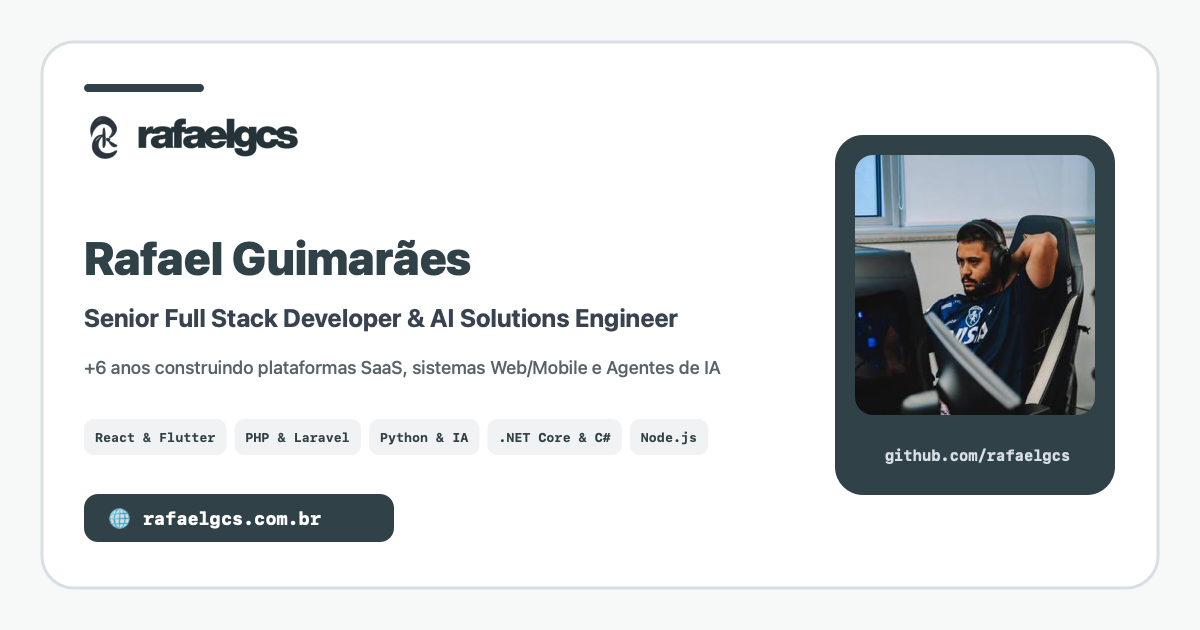
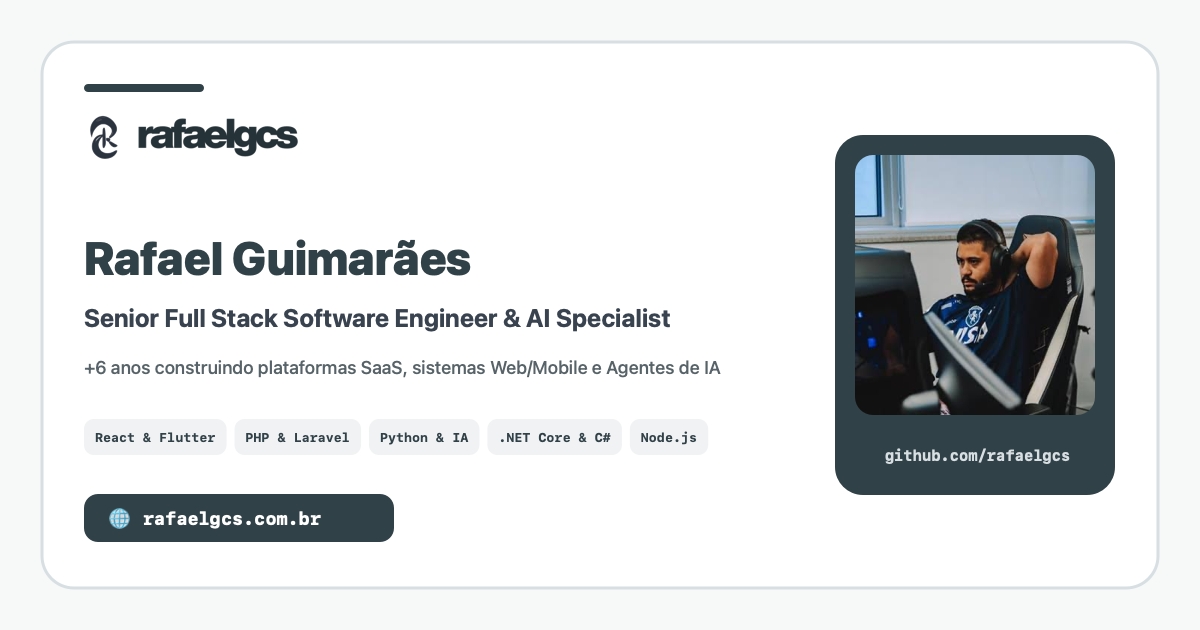
refactor: update job titles and descriptions to reflect Software Engineer role
- Changed "Desenvolvedor Full Stack Sênior" to "Engenheiro de Software Full Stack Sênior" in multiple files.
- Updated portfolio descriptions and SEO metadata to align with the new title.
- Enhanced project descriptions to better represent skills and technologies used.
- Adjusted keywords in meta tags for improved search visibility.

Changed region(s): [[0.2158, 0.4825, 0.5858, 0.5429]]

diff --git a/resources/js/Pages/Portfolio.jsx b/resources/js/Pages/Portfolio.jsx
@@ -250,9 +250,9 @@ function ProjectVisualPreview({ project }) {
 const CONTENT = {
     pt: {
         seo: {
-            title: 'Rafael Guimarães — Desenvolvedor Full Stack Sênior & Especialista em IA | rafaelgcs',
+            title: 'Rafael Guimarães — Engenheiro de Software Full Stack Sênior & Especialista em IA | rafaelgcs',
             description:
-                'Portfólio oficial de Rafael Guimarães (rafaelgcs) — Desenvolvedor Full Stack Sênior & Especialista em Soluções de Inteligência Artificial (+6 anos com React, PHP/Laravel, Python/Django, .NET Core, Node.js, Flutter e IA).',
+                'Portfólio oficial de Rafael Guimarães (rafaelgcs) — Engenheiro de Software Full Stack Sênior (Senior Software Engineer) & Especialista em Soluções de Inteligência Artificial (+6 anos com React, PHP/Laravel, Python/Django, .NET Core, Node.js, Flutter e IA).',
             locale: 'pt_BR',
         },
         slides: [
@@ -268,12 +268,11 @@ const CONTENT = {
         },
         hero: {
             greeting: 'Olá! Eu sou o Rafael Guimarães 👋',
-            badge: 'Disponível para novos projetos & vagas Sênior (Remoto / Híbrido)',
             headlinePart1: 'Transformo ideias e desafios em ',
             headlineHighlight: 'sistemas web, apps & agentes de IA',
             headlinePart2: ' com foco total na experiência do usuário.',
             description:
-                'Graduando em Análise e Desenvolvimento de Sistemas (Estácio) e em Ciência e Tecnologia (UFBA), Técnico em Desenvolvimento de Software pelo SENAI CIMATEC e Design na SAGA. Somo +6 anos construindo aplicações Full Stack (React, React Native, Flutter, Angular, PHP/Laravel, .NET Core, Node.js e Python/Django) e soluções de IA.',
+                'Graduando em Análise e Desenvolvimento de Sistemas (Estácio — previsão Jun/2027) e em Ciência e Tecnologia (UFBA — previsão Jun/2028), Técnico em Desenvolvimento de Software pelo SENAI CIMATEC e Design na SAGA. Somo +6 anos construindo aplicações Full Stack (React, React Native, Flutter, Angular, PHP/Laravel, .NET Core, Node.js e Python/Django) e soluções de IA.',
             primaryCta: 'Ver Projetos Realizados',
             cvPtBtn: 'Currículo (PT-BR)',
             cvEnBtn: 'Resume (EN)',
@@ -518,18 +517,18 @@ const CONTENT = {
                     id: 'almaviva-ai-maximo',
                     category: 'systems',
                     visualType: 'whatsapp-ai',
-                    badge: 'IA & Sistemas Críticos',
+                    badge: 'IA, Áudio, Big Data & Multi-Stack',
                     client: 'AlmaViva Solutions',
                     year: '2022 – 2026',
-                    title: 'Agentes de IA (Gemini/Vertex/Watson) & IBM Maximo',
+                    title: 'Chatbots (Watson/Gemini), Áudio IA, Python & .NET/Node',
                     shortDesc:
-                        'Desenvolvimento Full Stack em Python (Django), React e Angular integrado ao IBM Maximo e assistentes inteligentes no WhatsApp.',
+                        'Arquitetura em Python (Django, Flask, FastAPI), React/Angular e .NET Core/ASP.NET/Node.js, treinamento de IA, tratamento de áudio e chats embedded (iframe/WhatsApp).',
                     challenge:
-                        'Integrar atendimento automatizado de alta escala no WhatsApp e gestão de ativos corporativos (IBM Maximo) com baixa latência.',
+                        'Escalar canais de atendimento inteligente (WhatsApp e widgets embedded via iframe), processar áudio para treinamento de IA e sustentar múltiplos sistemas críticos e Big Data.',
                     solution:
-                        'Construção de microsserviços e APIs REST em Python/Django, dashboards em React/Angular e fluxos conversacionais com Google Vertex AI, Gemini e Watson.',
-                    impact: 'Promoção para Analista Nível IV e automação de operações críticas.',
-                    stack: ['Python', 'Django', 'React.js', 'Angular', 'Docker'],
+                        'Arquitetura com Python (Django, Flask, FastAPI), interfaces React.js/Angular, evolução para .NET Core, ASP.NET legado e Node.js no último ano, além de chatbots IBM Watson e Google Gemini.',
+                    impact: 'Promoção de Pleno III para Pleno IV atuando também como Analista de Dados/Big Data e suporte transversal a múltiplos projetos.',
+                    stack: ['Python', 'Django', '.NET Core', 'Node.js', 'React.js', 'Angular'],
                     liveUrl: null,
                     repoUrl: null,
                 },
@@ -537,18 +536,18 @@ const CONTENT = {
                     id: 'capgemini-cimatec',
                     category: 'systems',
                     visualType: 'capgemini-banking',
-                    badge: 'Enterprise & Mobile',
+                    badge: 'Enterprise, Salesforce & Mobile',
                     client: 'Capgemini & SENAI CIMATEC',
                     year: '2019 – 2022',
-                    title: 'Sistemas Corporativos (.NET/React) & Apps Flutter',
+                    title: 'Sistemas Corporativos (Node/Salesforce/.NET/React) & Flutter',
                     shortDesc:
-                        'Modernização de sistemas corporativos com C# (.NET Core / ASP.NET), React.js, Angular e aplicativos móveis em Flutter e React Native.',
+                        'Ingresso na Capgemini como Jr com Node.js e Salesforce, evoluindo com 2 promoções em projetos C# (.NET Core / ASP.NET), React.js, Angular e apps Flutter/React Native.',
                     challenge:
-                        'Entregar aplicações web e mobile escaláveis para grandes clientes corporativos e projetos de P&D cumprindo rigorosos padrões de qualidade.',
+                        'Entregar integrações Salesforce/Node.js e aplicações web e mobile escaláveis para grandes clientes corporativos e projetos de P&D.',
                     solution:
-                        'Desenvolvimento de APIs em .NET Core e Node.js, interfaces em React e Angular, e aplicativos multiplataforma em Flutter (como DevQuiz e conversores no GitHub).',
-                    impact: 'Duas promoções consecutivas na Capgemini em menos de 2 anos.',
-                    stack: ['.NET Core', 'C#', 'React.js', 'Flutter', 'Node.js'],
+                        'Desenvolvimento com Node.js, Salesforce, APIs em .NET Core e ASP.NET, interfaces em React e Angular e aplicativos multiplataforma em Flutter.',
+                    impact: 'Duas promoções consecutivas na Capgemini (Jr → Analista I → Consultor III) em menos de 2 anos.',
+                    stack: ['Node.js', '.NET Core', 'C#', 'React.js', 'Flutter'],
                     liveUrl: null,
                     repoUrl: 'https://github.com/rafaelgcs?tab=repositories',
                 },
@@ -606,23 +605,23 @@ const CONTENT = {
             jobs: [
                 {
                     company: 'AlmaViva Solutions',
-                    role: 'Senior Full Stack & AI Developer (PL III → PL IV)',
+                    role: 'Software Engineer Full Stack, IA & Big Data (Pleno III → Pleno IV)',
                     period: 'Mai 2022 – Nov 2026 (4a 7m)',
-                    badge: 'Promovido ao Nível IV',
+                    badge: 'Pleno III → Pleno IV',
                     summary:
-                        'Liderança técnica em projetos Full Stack (Python/Django, React, Angular), IBM Maximo e IA Generativa (Vertex AI, Gemini, Watson e WhatsApp).',
+                        'Python (Django, Flask, FastAPI), React/Angular e no último ano .NET Core, ASP.NET legado e Node.js. Chatbots (Watson/Gemini), tratamento de áudio, treino de IA, chats embedded (iframe/WhatsApp) e Big Data.',
                 },
                 {
                     company: 'Capgemini',
-                    role: 'Consultor de Soluções Digitais III',
+                    role: 'Software Engineer (Jr → Analista I → Consultor III)',
                     period: 'Mar 2020 – Mai 2022 (2a 3m)',
                     badge: '2 Promoções em < 2 anos',
                     summary:
-                        'Modernização de sistemas corporativos com React.js, Angular, Node.js, C#, ASP.NET e .NET Core em squads ágeis globais.',
+                        'Ingresso como Jr atuando com Node.js e Salesforce, evoluindo na modernização de sistemas corporativos com React.js, Angular, JavaScript, C#, ASP.NET e .NET Core.',
                 },
                 {
                     company: 'SENAI CIMATEC',
-                    role: 'Desenvolvedor de Software (Estágio) & Técnico',
+                    role: 'Estagiário de Engenharia de Software & Técnico',
                     period: 'Abr 2019 – Mar 2020 (Técnico 2017–2019)',
                     badge: 'P&D & Engenharia',
                     summary:
@@ -630,7 +629,7 @@ const CONTENT = {
                 },
                 {
                     company: 'EJC&T (UFBA) & Projetos SaaS',
-                    role: 'Diretor Presidente (CEO), Co-Fundador & Tech Lead',
+                    role: 'Diretor Presidente (CEO), Co-Fundador & Lead Software Engineer',
                     period: 'Abr 2019 – Fev 2021 • SaaS Ativos',
                     badge: 'CEO & Produtos SaaS',
                     summary:
@@ -641,7 +640,7 @@ const CONTENT = {
         contact: {
             title: 'Vamos construir o próximo grande projeto juntos?',
             subtitle:
-                'Disponibilidade imediata para atuar como Senior Full Stack Developer, Python/PHP Engineer ou Front-End/Mobile Specialist.',
+                'Engenheiro de Software Full Stack Sênior com atuação em Python/Django, PHP/Laravel, React/Next.js, .NET Core, Node.js, Mobile e Inteligência Artificial.',
             openModalBtn: 'Mandar Mensagem pelo Site',
             whatsappBtn: 'Chamar no WhatsApp',
             dialogTitle: 'Falar com Rafael Guimarães',
@@ -657,7 +656,7 @@ const CONTENT = {
     },
     en: {
         seo: {
-            title: 'Rafael Guimarães — Senior Full Stack Developer & AI Solutions Engineer | rafaelgcs',
+            title: 'Rafael Guimarães — Senior Full Stack Software Engineer & AI Specialist | rafaelgcs',
             description:
                 'Official portfolio of Rafael Guimarães (rafaelgcs) — Senior Full Stack Software Engineer & AI Solutions Specialist (6+ years building SaaS platforms, Web/Mobile apps with React, Laravel, Python/Django, .NET Core, Node.js, Flutter, and AI Agents).',
             locale: 'en_US',
@@ -675,12 +674,11 @@ const CONTENT = {
         },
         hero: {
             greeting: 'Hi there! I’m Rafael Guimarães 👋',
-            badge: 'Immediate Availability for Senior Roles & Projects (Remote / Hybrid)',
             headlinePart1: 'Turning complex ideas into ',
             headlineHighlight: 'web platforms, mobile apps & AI agents',
             headlinePart2: ' with a strong UI/UX foundation.',
             description:
-                'Systems Analysis & Development (ADS — Estácio) and Science & Technology (UFBA) student, Software Development Technician at SENAI CIMATEC, and Designer trained at SAGA. 6+ years building Full Stack applications (React, React Native, Flutter, Angular, PHP/Laravel, .NET Core, Node.js, Python/Django) and AI solutions.',
+                'Systems Analysis & Development (ADS — Estácio, expected Jun 2027) and Science & Technology (UFBA, expected Jun 2028) student, Software Development Technician at SENAI CIMATEC, and Designer trained at SAGA. 6+ years building Full Stack applications (React, React Native, Flutter, Angular, PHP/Laravel, .NET Core, Node.js, Python/Django) and AI solutions.',
             primaryCta: 'Explore Delivered Projects',
             cvPtBtn: 'Baixar CV (PT-BR)',
             cvEnBtn: 'Download CV (EN)',
@@ -925,18 +923,18 @@ const CONTENT = {
                     id: 'almaviva-ai-maximo',
                     category: 'systems',
                     visualType: 'whatsapp-ai',
-                    badge: 'AI & Enterprise EAM',
+                    badge: 'AI, Audio, Big Data & Multi-Stack',
                     client: 'AlmaViva Solutions',
                     year: '2022 – 2026',
-                    title: 'AI Agents (Gemini/Vertex/Watson) & IBM Maximo',
+                    title: 'Chatbots (Watson/Gemini), Audio AI, Python & .NET/Node',
                     shortDesc:
-                        'Full Stack engineering in Python (Django), React, and Angular integrated with IBM Maximo and WhatsApp AI assistants.',
+                        'Architected systems in Python (Django, Flask, FastAPI), React/Angular, and .NET Core/ASP.NET/Node.js, plus AI training, audio processing, and embedded chats (iframe/WhatsApp).',
                     challenge:
-                        'Connect high-volume WhatsApp customer operations and IBM Maximo asset management with low-latency APIs.',
+                        'Scale automated chat channels (WhatsApp and embedded iframe widgets), build audio processing & AI training pipelines, and support multi-stack enterprise & Big Data systems.',
                     solution:
-                        'Engineered Python/Django REST services, React/Angular portals, and conversational agents powered by Google Vertex AI, Gemini, and Watson.',
-                    impact: 'Promoted to Level IV Analyst while automating mission-critical workflows.',
-                    stack: ['Python', 'Django', 'React.js', 'Angular', 'Docker'],
+                        'Built services with Python (Django, Flask, FastAPI), React/Angular UIs, expanded into .NET Core, legacy ASP.NET, and Node.js in the final year, and orchestrated IBM Watson & Google Gemini chatbots.',
+                    impact: 'Promoted from Pleno III to Pleno IV while also acting as a Data/Big Data Analyst and supporting multiple projects.',
+                    stack: ['Python', 'Django', '.NET Core', 'Node.js', 'React.js', 'Angular'],
                     liveUrl: null,
                     repoUrl: null,
                 },
@@ -944,18 +942,18 @@ const CONTENT = {
                     id: 'capgemini-cimatec',
                     category: 'systems',
                     visualType: 'capgemini-banking',
-                    badge: 'Enterprise & Mobile',
+                    badge: 'Enterprise, Salesforce & Mobile',
                     client: 'Capgemini & SENAI CIMATEC',
                     year: '2019 – 2022',
-                    title: 'Enterprise Systems (.NET/React) & Flutter Apps',
+                    title: 'Enterprise Systems (Node/Salesforce/.NET/React) & Flutter',
                     shortDesc:
-                        'Modernized enterprise platforms with C# (.NET Core / ASP.NET), React.js, Angular, and cross-platform Flutter / React Native apps.',
+                        'Joined Capgemini as a Junior Engineer with Node.js and Salesforce, earning 2 promotions across C# (.NET Core / ASP.NET), React.js, Angular, and Flutter/React Native projects.',
                     challenge:
-                        'Deliver scalable web and mobile solutions for global enterprise clients and R&D initiatives.',
+                        'Deliver Salesforce/Node.js integrations and scalable web/mobile solutions for global enterprise clients and R&D initiatives.',
                     solution:
-                        'Developed .NET Core and Node.js APIs, reusable React/Angular components, and Flutter mobile apps.',
-                    impact: 'Earned two consecutive promotions at Capgemini in under 2 years.',
-                    stack: ['.NET Core', 'C#', 'React.js', 'Flutter', 'Node.js'],
+                        'Developed with Node.js, Salesforce, .NET Core/ASP.NET APIs, reusable React/Angular components, and Flutter mobile apps.',
+                    impact: 'Earned two consecutive promotions at Capgemini (Jr → Analyst I → Consultant III) in under 2 years.',
+                    stack: ['Node.js', '.NET Core', 'C#', 'React.js', 'Flutter'],
                     liveUrl: null,
                     repoUrl: 'https://github.com/rafaelgcs?tab=repositories',
                 },
@@ -1013,23 +1011,23 @@ const CONTENT = {
             jobs: [
                 {
                     company: 'AlmaViva Solutions',
-                    role: 'Senior Full Stack & AI Developer (PL III → IV)',
+                    role: 'Software Engineer Full Stack, AI & Big Data (Pleno III → IV)',
                     period: 'May 2022 – Nov 2026 (4y 7m)',
-                    badge: 'Promoted to Level IV',
+                    badge: 'Pleno III → Pleno IV',
                     summary:
-                        'Technical ownership across Full Stack platforms (Python/Django, React, Angular), IBM Maximo integrations, and Generative AI (Vertex AI, Gemini, Watson, WhatsApp).',
+                        'Python (Django, Flask, FastAPI), React/Angular, and in the final year .NET Core, legacy ASP.NET & Node.js. Chatbots (Watson/Gemini), audio processing, AI training, embedded iframe/WhatsApp chats & Big Data.',
                 },
                 {
                     company: 'Capgemini',
-                    role: 'Digital Solutions Consultant III',
+                    role: 'Software Engineer (Jr → Analyst I → Consultant III)',
                     period: 'Mar 2020 – May 2022 (2y 3m)',
                     badge: '2 Promotions in < 2 yrs',
                     summary:
-                        'Modernized enterprise applications using React.js, Angular, Node.js, C#, ASP.NET, and .NET Core in global Agile squads.',
+                        'Joined as Jr working with Node.js and Salesforce, advancing across enterprise modernizations with React.js, Angular, JavaScript, C#, ASP.NET, and .NET Core.',
                 },
                 {
                     company: 'SENAI CIMATEC',
-                    role: 'Software Development Intern & Technician',
+                    role: 'Software Engineering Intern & Technician',
                     period: 'Apr 2019 – Mar 2020 (Tech 2017–2019)',
                     badge: 'R&D & Engineering',
                     summary:
@@ -1037,7 +1035,7 @@ const CONTENT = {
                 },
                 {
                     company: 'EJC&T (UFBA) & SaaS Products',
-                    role: 'CEO, Co-Founder & SaaS Architect',
+                    role: 'CEO, Co-Founder & Lead Software Engineer',
                     period: 'Apr 2019 – Feb 2021 • Active SaaS',
                     badge: 'CEO & SaaS Products',
                     summary:
@@ -1048,7 +1046,7 @@ const CONTENT = {
         contact: {
             title: 'Let’s build something great together!',
             subtitle:
-                'Available immediately for Senior Full Stack Developer, Python/PHP Engineer, or Front-End/Mobile Specialist roles.',
+                'Senior Full Stack Software Engineer specializing in Python/Django, PHP/Laravel, React/Next.js, .NET Core, Node.js, Mobile, and AI Solutions.',
             openModalBtn: 'Send Message on Site',
             whatsappBtn: 'Chat on WhatsApp',
             dialogTitle: 'Message Rafael Guimarães',
@@ -1420,11 +1418,6 @@ export default function Portfolio({ profile }) {
                     >
                         <div className="slide-stage grid grid-cols-1 lg:grid-cols-12 gap-8 lg:gap-10 items-center">
                             <div className="lg:col-span-7 space-y-4">
-                                <div className="inline-flex items-center gap-2 px-3.5 py-1.5 rounded-full bg-emerald-50 border border-emerald-300 text-emerald-900 text-xs font-bold">
-                                    <span className="w-2 h-2 rounded-full bg-emerald-600 pulse-dot" aria-hidden="true" />
-                                    <span>{t.hero.badge}</span>
-                                </div>
-
                                 <p className="text-base sm:text-lg font-bold text-[#455055]">
                                     {t.hero.greeting}
                                 </p>

diff --git a/resources/js/app.jsx b/resources/js/app.jsx
@@ -1,7 +1,7 @@
 import { createInertiaApp } from '@inertiajs/react';
 import { createRoot } from 'react-dom/client';
 
-const DEFAULT_TITLE = 'Rafael Guimarães — Desenvolvedor Full Stack Sênior & Especialista em IA | rafaelgcs';
+const DEFAULT_TITLE = 'Rafael Guimarães — Engenheiro de Software Full Stack Sênior & Especialista em IA | rafaelgcs';
 
 createInertiaApp({
     title: (title) => {

diff --git a/resources/views/app.blade.php b/resources/views/app.blade.php
@@ -2,8 +2,8 @@
     $rawAppName = config('app.name');
     $defaultTitle = ($rawAppName && $rawAppName !== 'Laravel')
         ? $rawAppName
-        : 'Rafael Guimarães — Desenvolvedor Full Stack Sênior & Especialista em IA | rafaelgcs';
-    $defaultDescription = 'Portfólio oficial de Rafael Guimarães (rafaelgcs) — Desenvolvedor Full Stack Sênior & Especialista em Soluções de Inteligência Artificial (+6 anos com React, Next.js, PHP/Laravel, Python/Django, .NET Core, Node.js, Flutter e Agentes de IA).';
+        : 'Rafael Guimarães — Engenheiro de Software Full Stack Sênior & Especialista em IA | rafaelgcs';
+    $defaultDescription = 'Portfólio oficial de Rafael Guimarães (rafaelgcs) — Engenheiro de Software Full Stack Sênior (Senior Software Engineer) & Especialista em Soluções de Inteligência Artificial (+6 anos com React, Next.js, PHP/Laravel, Python/Django, .NET Core, Node.js, Flutter e Agentes de IA).';
     $canonicalUrl = url()->current() ?: 'https://rafaelgcs.com.br';
     $ogImageUrl = asset('brand/og-cover.png');
 @endphp
@@ -16,7 +16,7 @@
     <!-- Primary SEO Meta Tags -->
     <title inertia>{{ $defaultTitle }}</title>
     <meta name="description" content="{{ $defaultDescription }}" inertia>
-    <meta name="keywords" content="Rafael Guimarães, rafaelgcs, Desenvolvedor Full Stack Sênior, Senior Full Stack Developer, Engenheiro de Software, Especialista em IA, React, React Native, Flutter, Angular, TypeScript, PHP, Laravel, Inertia, Python, Django, .NET Core, C#, Node.js, MiuCore Atende, PsiEasy, Salvador Bahia" inertia>
+    <meta name="keywords" content="Rafael Guimarães, rafaelgcs, Engenheiro de Software Full Stack Sênior, Senior Software Engineer, Senior Full Stack Software Engineer, Especialista em IA, React, React Native, Flutter, Angular, TypeScript, PHP, Laravel, Inertia, Python, Django, .NET Core, C#, Node.js, MiuCore Atende, PsiEasy, Salvador Bahia" inertia>
     <meta name="author" content="Rafael Guimarães (rafaelgcs)">
     <meta name="creator" content="Rafael Guimarães">
     <meta name="publisher" content="Rafael Guimarães">
@@ -37,22 +37,22 @@
     <meta property="og:locale" content="pt_BR" inertia>
     <meta property="og:locale:alternate" content="en_US">
     <meta property="og:url" content="{{ $canonicalUrl }}" inertia>
-    <meta property="og:title" content="Rafael Guimarães — Desenvolvedor Full Stack Sênior & Especialista em IA" inertia>
+    <meta property="og:title" content="Rafael Guimarães — Engenheiro de Software Full Stack Sênior & Especialista em IA" inertia>
     <meta property="og:description" content="{{ $defaultDescription }}" inertia>
     <meta property="og:image" content="{{ $ogImageUrl }}" inertia>
     <meta property="og:image:secure_url" content="{{ $ogImageUrl }}">
     <meta property="og:image:type" content="image/png">
     <meta property="og:image:width" content="1200">
     <meta property="og:image:height" content="630">
-    <meta property="og:image:alt" content="Rafael Guimarães — Senior Full Stack Developer & AI Solutions Engineer (rafaelgcs.com.br)" inertia>
+    <meta property="og:image:alt" content="Rafael Guimarães — Senior Full Stack Software Engineer & AI Specialist (rafaelgcs.com.br)" inertia>
 
     <!-- Twitter / X Large Summary Card -->
     <meta name="twitter:card" content="summary_large_image" inertia>
     <meta name="twitter:url" content="{{ $canonicalUrl }}" inertia>
-    <meta name="twitter:title" content="Rafael Guimarães — Desenvolvedor Full Stack Sênior & Especialista em IA" inertia>
+    <meta name="twitter:title" content="Rafael Guimarães — Engenheiro de Software Full Stack Sênior & Especialista em IA" inertia>
     <meta name="twitter:description" content="{{ $defaultDescription }}" inertia>
     <meta name="twitter:image" content="{{ $ogImageUrl }}" inertia>
-    <meta name="twitter:image:alt" content="Rafael Guimarães — Senior Full Stack Developer & AI Solutions Engineer (rafaelgcs.com.br)">
+    <meta name="twitter:image:alt" content="Rafael Guimarães — Senior Full Stack Software Engineer & AI Specialist (rafaelgcs.com.br)">
 
     <!-- Favicons & Web App Manifest -->
     <link rel="icon" type="image/png" sizes="32x32" href="/favicon.png">
@@ -82,7 +82,7 @@
                 '@type' => 'ProfilePage',
                 '@id' => 'https://rafaelgcs.com.br/#profilepage',
                 'url' => 'https://rafaelgcs.com.br/',
-                'name' => 'Rafael Guimarães — Desenvolvedor Full Stack Sênior & Especialista em IA',
+                'name' => 'Rafael Guimarães — Engenheiro de Software Full Stack Sênior & Especialista em IA',
                 'isPartOf' => ['@id' => 'https://rafaelgcs.com.br/#website'],
                 'mainEntity' => ['@id' => 'https://rafaelgcs.com.br/#person'],
             ],
@@ -91,7 +91,7 @@
                 '@id' => 'https://rafaelgcs.com.br/#person',
                 'name' => 'Rafael Guimarães',
                 'alternateName' => 'rafaelgcs',
-                'jobTitle' => 'Desenvolvedor Full Stack Sênior & Especialista em Soluções de IA',
+                'jobTitle' => 'Engenheiro de Software Full Stack Sênior & Especialista em Soluções de IA (Senior Software Engineer)',
                 'description' => $defaultDescription,
                 'url' => 'https://rafaelgcs.com.br/',
                 'image' => $ogImageUrl,

diff --git a/config/app.php b/config/app.php
@@ -13,7 +13,7 @@ return [
     |
     */
 
-    'name' => env('APP_NAME', 'Rafael Guimarães | Senior Full Stack & AI Engineer'),
+    'name' => env('APP_NAME', 'Rafael Guimarães | Senior Full Stack Software Engineer & AI Specialist'),
 
     /*
     |--------------------------------------------------------------------------
